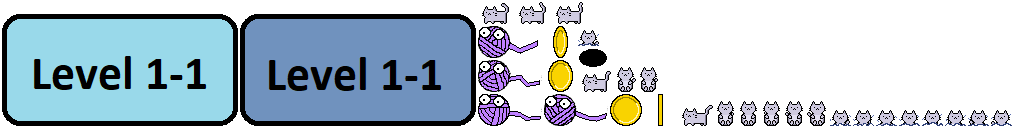
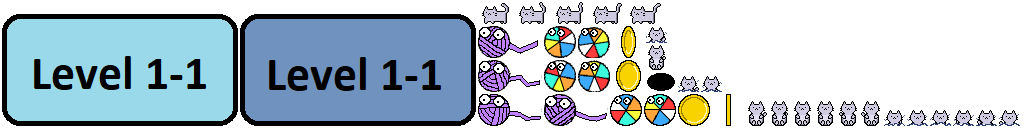
added beach ball animation instead of yarn ball, fixed yarn ball bug

Changed region(s): [[0.5312, 0.1875, 1.0, 1.0], [0.5625, 0.0312, 0.6562, 0.1875]]

diff --git a/core/src/com/sandra/game/entities/Yarn_Ball.java b/core/src/com/sandra/game/entities/Yarn_Ball.java
@@ -12,11 +12,15 @@ import com.badlogic.gdx.utils.TimeUtils;
 import com.sandra.game.utils.Utils;
 import com.sandra.game.utils.Assets;
 import com.sandra.game.utils.Constants;
+import com.sandra.game.utils.Enums.Action;
+import com.sandra.game.utils.Enums.Direction;
+import com.sandra.game.utils.Enums;
 
 public class Yarn_Ball extends Entity {
     private World b2d_world;
     private float animation_start_time;
     private Vector2 original_velocity;
+    private Direction direction;
 
     public Yarn_Ball(Vector2 position, World b2d_world) {
         render_position = position;
@@ -28,23 +32,34 @@ public class Yarn_Ball extends Entity {
 
         body.applyLinearImpulse(velocity, body.getWorldCenter(), true);
         original_velocity = new Vector2(body.getLinearVelocity());
+        direction = Enums.Direction.LEFT;
     }
 
     public void render(SpriteBatch batch) {
         float animation_time_seconds = Utils.secondsSince(animation_start_time);
         TextureRegion region = Assets.instance.yarnBallAssets.yarn_ball_animation.getKeyFrame(animation_time_seconds);
-        Utils.drawTextureRegion(batch, region, render_position); 
+
+        // Directions
+        if (direction == Enums.Direction.LEFT) {
+            Utils.drawTextureRegion(batch, region, render_position.x, render_position.y);
+        }
+        else if (direction == Enums.Direction.RIGHT) {
+            Utils.drawTextureRegion(batch, region, render_position.x, render_position.y, true);
+        }
     }
 
     public void update(float delta) {
         if (body.getUserData() == "collision" || 
                 (body.getLinearVelocity().x == 0 && body.getLinearVelocity().y == 0)) { // or if it stops completely
             body.setUserData(Constants.YARN_BALL_SPRITE_1);
-            bounce_off_of_things();            
+            bounce_off_of_things();
         }
+        
+        if (body.getLinearVelocity().x > 0) {direction = Enums.Direction.RIGHT;} 
+        else if (body.getLinearVelocity().x < 0) {direction = Enums.Direction.LEFT;}
 
         render_position.set(
-            body.getPosition().x - Constants.YARN_BALL_PIXEL_WIDTH / 2 / 2 / Constants.PPM, // extra half divide because sprite width=2xheight
+            body.getPosition().x - Constants.YARN_BALL_PIXEL_WIDTH / 2 / Constants.PPM,
             body.getPosition().y - Constants.YARN_BALL_PIXEL_HEIGHT / 2 / Constants.PPM
         );
     }
@@ -54,20 +69,21 @@ public class Yarn_Ball extends Entity {
     private void bounce_off_of_things() { // imagine a cartesian coordinate system
         if (((body.getLinearVelocity().x < original_velocity.x) && body.getLinearVelocity().x >= 0) ||              // 1st quadrant
                     (body.getLinearVelocity().y < original_velocity.y) && body.getLinearVelocity().y >= 0) {
-                body.applyLinearImpulse(velocity, body.getWorldCenter(), true);
-            } else if (((body.getLinearVelocity().x < original_velocity.x) && body.getLinearVelocity().x >= 0) ||   // 4th quadrant
-                    (body.getLinearVelocity().y > -original_velocity.y) && body.getLinearVelocity().y <= 0) {
-                body.setLinearVelocity(0, 0);
-                body.applyLinearImpulse(velocity.x, velocity.y*-1, body.getWorldCenter().x, body.getWorldCenter().y, true);
-            } else if (((body.getLinearVelocity().x > -original_velocity.x) && body.getLinearVelocity().x <= 0) ||  // 2nd quadrant
-                    (body.getLinearVelocity().y < original_velocity.y) && body.getLinearVelocity().y >= 0) {
-                body.setLinearVelocity(0, 0);
-                body.applyLinearImpulse(velocity.x*-1, velocity.y, body.getWorldCenter().x, body.getWorldCenter().y, true);
-            } else if (((body.getLinearVelocity().x > -original_velocity.x) && body.getLinearVelocity().x <= 0) ||  // 3rd quadrant
-                    (body.getLinearVelocity().y > -original_velocity.y) && body.getLinearVelocity().y <= 0) {
-                body.setLinearVelocity(0, 0);
-                body.applyLinearImpulse(velocity.x*-1, velocity.y*-1, body.getWorldCenter().x, body.getWorldCenter().y, true);
-            }
+            body.setLinearVelocity(0, 0);
+            body.applyLinearImpulse(velocity, body.getWorldCenter(), true);
+        } else if (((body.getLinearVelocity().x < original_velocity.x) && body.getLinearVelocity().x >= 0) ||   // 4th quadrant
+                (body.getLinearVelocity().y > -original_velocity.y) && body.getLinearVelocity().y <= 0) {
+            body.setLinearVelocity(0, 0);
+            body.applyLinearImpulse(velocity.x, velocity.y*-1, body.getWorldCenter().x, body.getWorldCenter().y, true);
+        } else if (((body.getLinearVelocity().x > -original_velocity.x) && body.getLinearVelocity().x <= 0) ||  // 2nd quadrant
+                (body.getLinearVelocity().y < original_velocity.y) && body.getLinearVelocity().y >= 0) {
+            body.setLinearVelocity(0, 0);
+            body.applyLinearImpulse(velocity.x*-1, velocity.y, body.getWorldCenter().x, body.getWorldCenter().y, true);
+        } else if (((body.getLinearVelocity().x > -original_velocity.x) && body.getLinearVelocity().x <= 0) ||  // 3rd quadrant
+                (body.getLinearVelocity().y > -original_velocity.y) && body.getLinearVelocity().y <= 0) {
+            body.setLinearVelocity(0, 0);
+            body.applyLinearImpulse(velocity.x*-1, velocity.y*-1, body.getWorldCenter().x, body.getWorldCenter().y, true);
+        }
     }
 
     private void init_body() {

diff --git a/core/src/com/sandra/game/utils/Assets.java b/core/src/com/sandra/game/utils/Assets.java
@@ -71,6 +71,7 @@ public class Assets implements Disposable, AssetErrorListener {
             cat1_idle_frames.add(atlas.findRegion(Constants.CAT1_IDLE_SPRITE_3));
             cat1_idle_frames.add(atlas.findRegion(Constants.CAT1_IDLE_SPRITE_4));
             cat1_idle_frames.add(atlas.findRegion(Constants.CAT1_IDLE_SPRITE_5));
+            
             cat1_idle_animation = new Animation<TextureRegion>(Constants.CAT1_LOOP_DURATION, cat1_idle_frames, PlayMode.LOOP_PINGPONG);
             
             Array<TextureRegion> cat1_sliding_frames = new Array<TextureRegion>();
@@ -83,6 +84,7 @@ public class Assets implements Disposable, AssetErrorListener {
             cat1_sliding_frames.add(atlas.findRegion(Constants.CAT1_SLIDE_SPRITE_5));
             cat1_sliding_frames.add(atlas.findRegion(Constants.CAT1_SLIDE_SPRITE_6));
             cat1_sliding_frames.add(atlas.findRegion(Constants.CAT1_SLIDE_SPRITE_7));
+
             cat1_sliding_animation = new Animation<TextureRegion>(Constants.CAT1_LOOP_DURATION, cat1_sliding_frames, PlayMode.LOOP_PINGPONG);
 
             Array<TextureRegion> cat1_swimming_frames = new Array<TextureRegion>();
@@ -95,6 +97,7 @@ public class Assets implements Disposable, AssetErrorListener {
             cat1_swimming_frames.add(atlas.findRegion(Constants.CAT1_SWIMMING_SPRITE_7));
             cat1_swimming_frames.add(atlas.findRegion(Constants.CAT1_SWIMMING_SPRITE_8));
             cat1_swimming_frames.add(atlas.findRegion(Constants.CAT1_SWIMMING_SPRITE_9));
+
             cat1_swimming_animation = new Animation<TextureRegion>(Constants.CAT1_LOOP_DURATION, cat1_swimming_frames, PlayMode.LOOP_PINGPONG);
         }
     }
@@ -108,6 +111,8 @@ public class Assets implements Disposable, AssetErrorListener {
             yarn_ball_frames.add(atlas.findRegion(Constants.YARN_BALL_SPRITE_2));
             yarn_ball_frames.add(atlas.findRegion(Constants.YARN_BALL_SPRITE_3));
             yarn_ball_frames.add(atlas.findRegion(Constants.YARN_BALL_SPRITE_4));
+            yarn_ball_frames.add(atlas.findRegion(Constants.YARN_BALL_SPRITE_5));
+            yarn_ball_frames.add(atlas.findRegion(Constants.YARN_BALL_SPRITE_6));
 
             yarn_ball_animation = new Animation<TextureRegion>(Constants.YARN_BALL_LOOP_DURATION, yarn_ball_frames, PlayMode.LOOP);
         }

diff --git a/core/src/com/sandra/game/handlers/MyContactListener.java b/core/src/com/sandra/game/handlers/MyContactListener.java
@@ -39,20 +39,20 @@ public class MyContactListener implements ContactListener{
 			fb.getBody().setUserData("collision");
 		}
 
+		if(fa.getUserData() != null && fa.getUserData().equals(Constants.YARN_BALL_SPRITE_1) &&		// world vs yarn ball
+				fb.getUserData() != null && fb.getUserData().equals(Constants.B2D_WORLD)) {
+			fa.getBody().setUserData("collision");
+		}
+
 		if(fa.getUserData() != null && fa.getUserData().equals(Constants.CAT1_IDLE_SPRITE_1) &&		// cat vs yarn ball
 				fb.getUserData() != null && fb.getUserData().equals(Constants.YARN_BALL_SPRITE_1)) {
 			fb.getBody().setUserData("collision");
 		}
 
-		if(fa.getUserData() != null && fa.getUserData().equals(Constants.CAT1_IDLE_SPRITE_1) &&		// cat vs land zone
+		if(fa.getUserData() != null && fa.getUserData().equals(Constants.CAT1_IDLE_SPRITE_1) &&		// cat vs zone
 				fb.getUserData() != null && fb.getUserData().equals(Constants.B2D_LAND_ZONE)) {
 			fa.getBody().setUserData("zone_count_up");
 		}
-
-		/* if(fa.getUserData() != null && fa.getUserData().equals(Constants.YARN_BALL_SPRITE_1) &&		// cat vs land zone
-				fb.getUserData() != null && fb.getUserData().equals(Constants.B2D_LAND_ZONE)) {
-			fa.getBody().setUserData(++zone_count);
-		} */
 	}
 
 	@Override
@@ -60,7 +60,7 @@ public class MyContactListener implements ContactListener{
 		Fixture fa = contact.getFixtureA();
 		Fixture fb = contact.getFixtureB();
 
-		if(fa.getUserData() != null && fa.getUserData().equals(Constants.CAT1_IDLE_SPRITE_1) &&		// cat vs land zone
+		if(fa.getUserData() != null && fa.getUserData().equals(Constants.CAT1_IDLE_SPRITE_1) &&		// cat vs zone
 				fb.getUserData() != null && fb.getUserData().equals(Constants.B2D_LAND_ZONE)) {
 			fa.getBody().setUserData("zone_count_down");
 		}

diff --git a/core/src/com/sandra/game/utils/Constants.java b/core/src/com/sandra/game/utils/Constants.java
@@ -75,19 +75,21 @@ public class Constants {
     public static final float CAT1_HALF_HEIGHT = 16f / PPM; // cat width = .25m, from bird's perspective
 
     // Yarn ball
-    public static final String YARN_BALL_SPRITE_1 = "yarn_ball1";
-    public static final String YARN_BALL_SPRITE_2 = "yarn_ball2";
-    public static final String YARN_BALL_SPRITE_3 = "yarn_ball3";
-    public static final String YARN_BALL_SPRITE_4 = "yarn_ball4";
+    public static final String YARN_BALL_SPRITE_1 = "beach_ball1";
+    public static final String YARN_BALL_SPRITE_2 = "beach_ball2";
+    public static final String YARN_BALL_SPRITE_3 = "beach_ball3";
+    public static final String YARN_BALL_SPRITE_4 = "beach_ball4";
+    public static final String YARN_BALL_SPRITE_5 = "beach_ball5";
+    public static final String YARN_BALL_SPRITE_6 = "beach_ball6";
     public static final Vector2 YARN_BALL_CENTER = new Vector2(0, 0);
     public static final float YARN_BALL_MOVE_SPEED = 50f;
-    public static final float YARN_BALL_PIXEL_WIDTH = 64f;
+    public static final float YARN_BALL_PIXEL_WIDTH = 32f;
     public static final float YARN_BALL_PIXEL_HEIGHT = 32f;
     public static final float YARN_BALL_DENSITY = .65f;
     public static final float YARN_BALL_RESTITUTION = 1f;
     public static final float YARN_BALL_RADIUS = 14f / PPM;
     public static final float YARN_BALL_LOOP_DURATION = .15f;
-    public static final float YARN_BALL_VELOCITY = .05f;
+    public static final float YARN_BALL_VELOCITY = .041f;
 
     // Hole
     public static final String HOLE_SPRITE = "hole";

diff --git a/core/src/com/sandra/game/entities/Cat1.java b/core/src/com/sandra/game/entities/Cat1.java
@@ -2,7 +2,6 @@ package com.sandra.game.entities;
 
 import java.util.UUID;
 
-import com.badlogic.gdx.graphics.g2d.Sprite;
 import com.badlogic.gdx.graphics.g2d.SpriteBatch;
 import com.badlogic.gdx.graphics.g2d.TextureRegion;
 import com.badlogic.gdx.math.Vector2;
